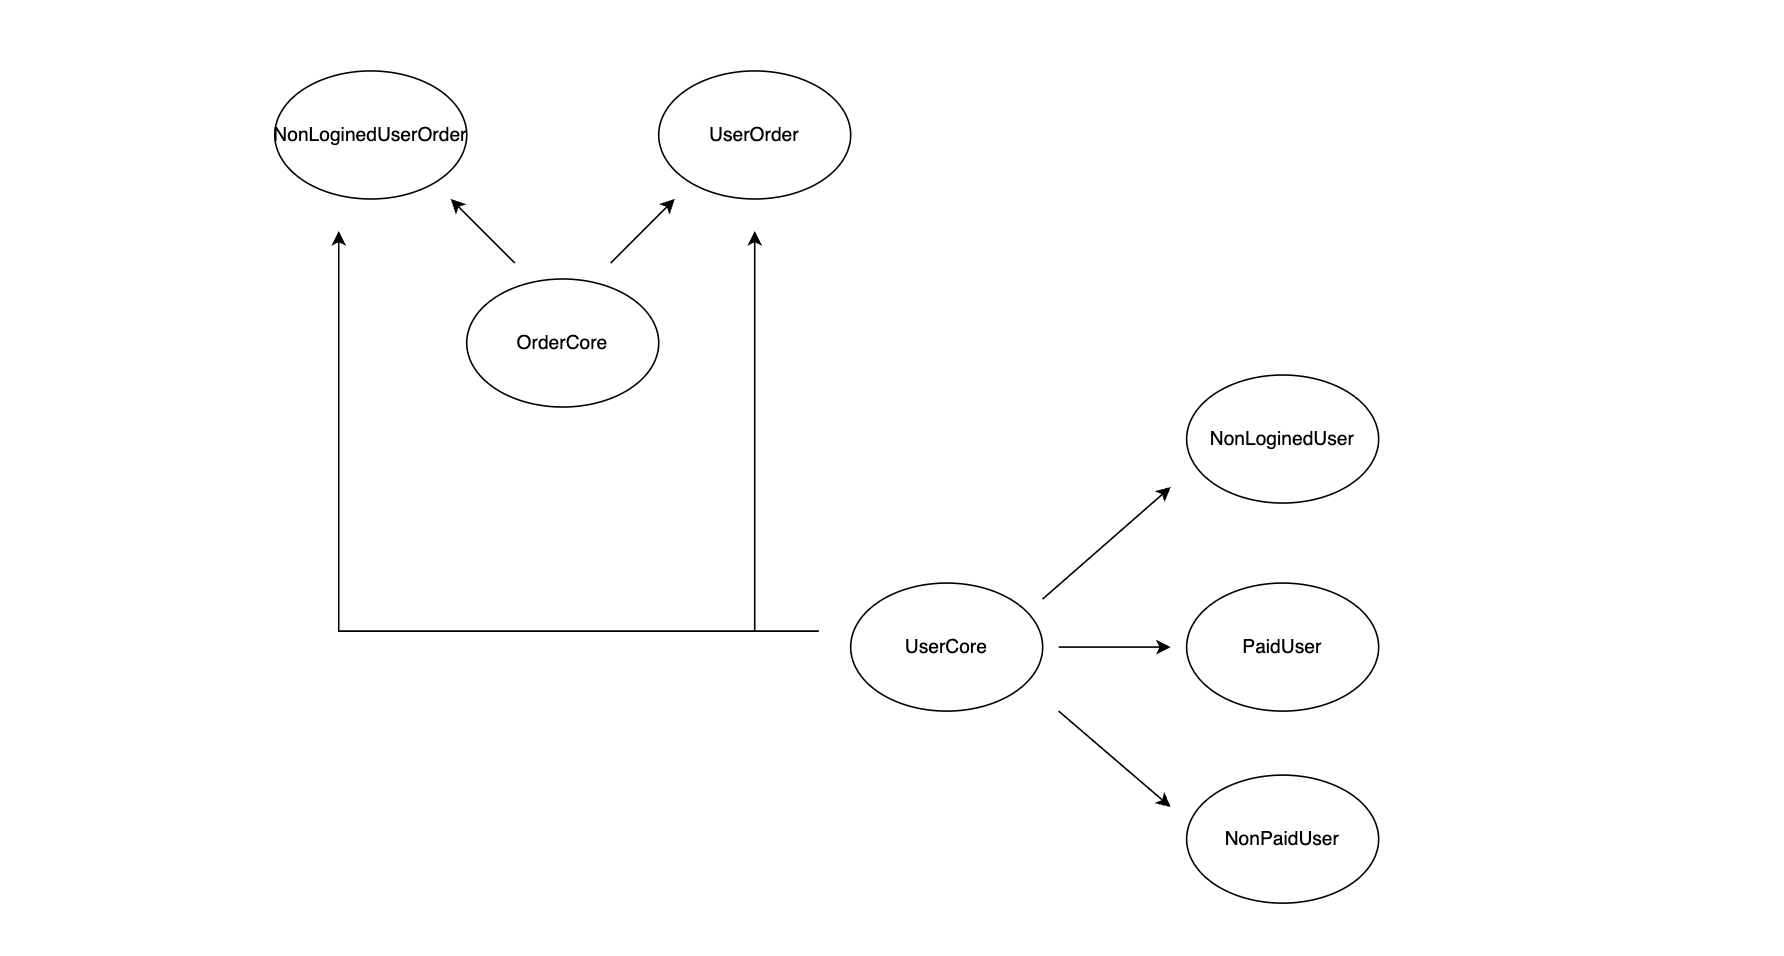
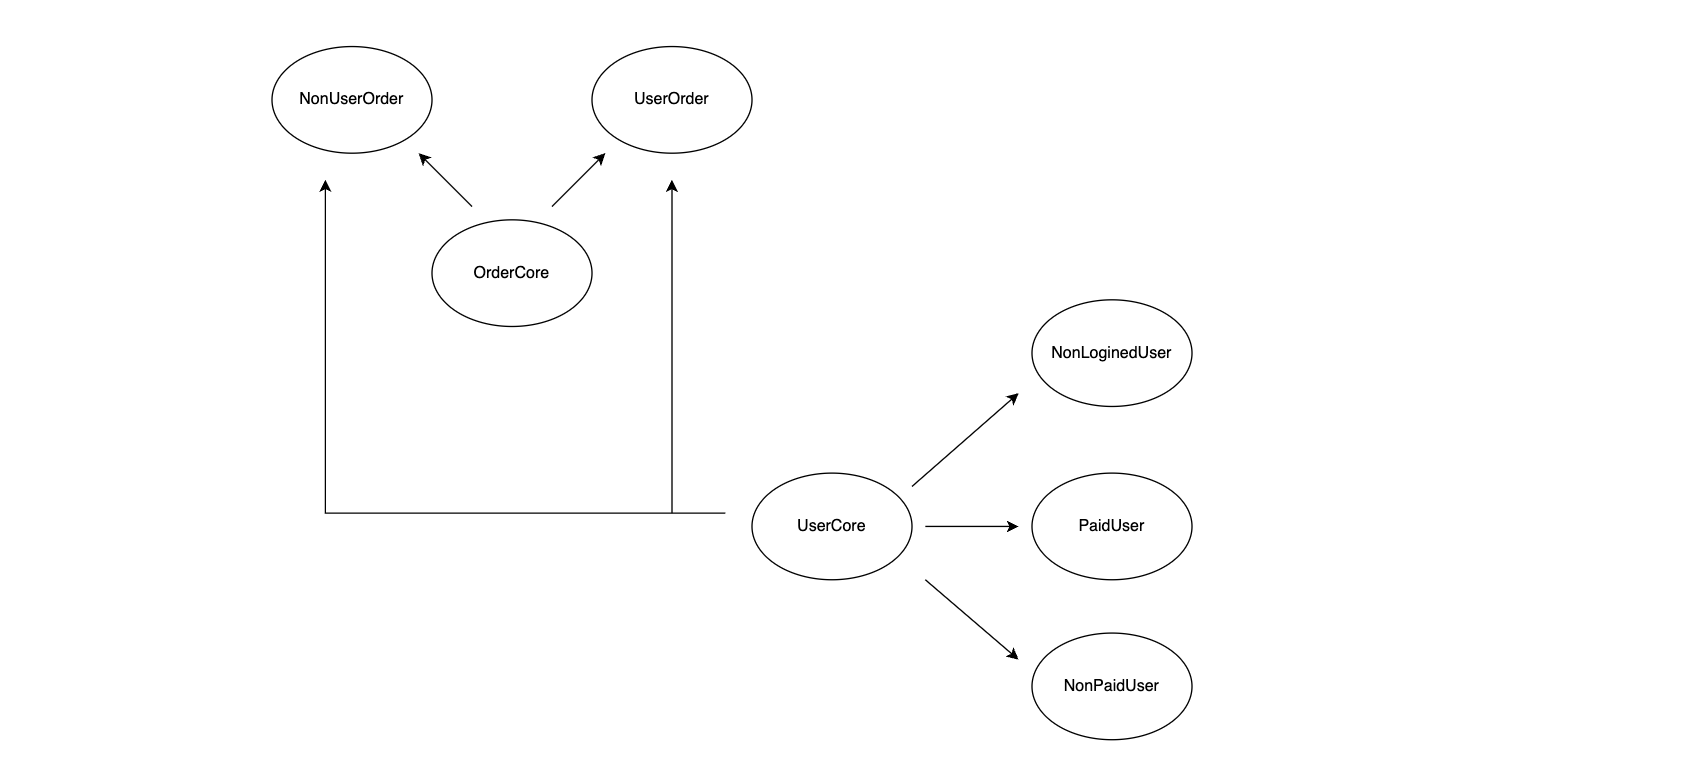
1

diff --git a/_posts/2023-06-30-dependnecy-manage-on-nestjs.md b/_posts/2023-06-30-dependnecy-manage-on-nestjs.md
@@ -9,46 +9,43 @@ tags:
 ---
 
 어떤 아키텍쳐를 쓰던 DI(dependency injection)는 대부분 이용된다. Nest.js의 기본 구조도 그렇다.
-그런데 DI로 개발하다보면 의존성이 꼬이는 일이 발생하는 경우가 있다. 바쁘다는 이유로 대충 생각해서 일하다보면 그럴때도 있고, 새로운 기능에 대해 개발도중에 기존 의존 구조와 상호의존되는 상황도 발생한다. 엄청 복잡하게 의존성이 엉켜서 전체 구조 파악이 힘들 때도 있겠지만, 그 정도가 되기전에 보통 **circular dependency**가 발생한다. 
+그런데 DI로 개발하다보면 의존성이 꼬이는 일이 발생하는 경우가 있다. 대부분이  **circular dependency**로 나타난다.
 이 때 *lazy loading*을 이용해서 circular dependency 발생 없이 개발할수도 있지만 상호의존은 최악의 구조이기 때문에 최대한 불가피한 경우에만 써야한다.
 
 내가 관리하는 프로젝트들에서 상호 의존을 피하기 위한 규칙들은 아래와 같다.
 
 ## 1. 테이블 마다 모듈을 만든다는 생각부터 버려야한다.
-나 또한 개발 초기에는 대부분의 백엔드 강의가 CRUD 강의였기때문에 테이블과 거의 1대1 매칭이 됐다. 그렇게 배웠다보니 나도 초기에는 실무에서 그렇게 해왔다. 하지만 어느 순간 상호 의존하는 상황이 발생한다.(지금도 꽤 발생한다..) 가장 큰 이유는 개별 모듈이 너무 커졌기 때문이다.
+나 또한 개발 초기에는 대부분의 백엔드 강의가 CRUD 강의였기때문에 테이블과 거의 1대1 매칭이 됐다. 그렇게 배웠다보니 나도 실무에서 그렇게 해왔다. 하지만 어느 순간 상호 의존하는 상황이 발생했다.(지금도 꽤 발생한다..) 가장 큰 이유는 개별 모듈이 너무 커졌기 때문이다.
 
 ### 종류에 따라
 ![1](/img/writing-images/user-module.png)
-User, Order, Product 이 3가지의 테이블을 가진 서비스를 생각해보자. 모듈을 테이블대로 3개만 만들어서 이용한다면 초기에는 기능이 괜찮았겠지만 서비스가 커질수록 기능이 아주 많아지면서 개별 모듈의 기능들이 많아진다(책임이 커진다).
-예를 들면, User의 종류도 처음엔 한 종류일 수 있었다. 그런데 한달뒤에 비로그인 유저가 주문할수 있는 기능도 생겨날수 있다. 혹은 유저 등급에 따라 기능이 분리될수도 있게 된다.(e.g. PaidUser, UnpaidUser).
+User, Order, Product 이 3가지의 테이블을 가진 서비스를 생각해보자. 모듈을 테이블대로 3개만 만들어서 이용한다면 초기에는 괜찮았겠지만 서비스가 커질수록 기능이 아주 많아지면서 개별 모듈의 기능들 또한 많아진다(책임이 커진다).
+예를 들면, User의 종류도 처음엔 한 종류였다. 그런데 한달뒤에 비로그인 유저가 주문할수 있는 기능도 생겨날수 있다. 혹은 유저 등급에 따라 기능이 분리될수도 있게 된다.(e.g. PaidUser, UnpaidUser).
 
 > "기능이 많다" 라는 건 다른 모듈의 기능을 필요할(의존할) 확률이 높아진다와 같은 말이다.
 
-PaidUser, UnpaiedUser, NonLoginedUser 처럼 여러개로 나눠 모듈을 관리한다면 PaidUser에서만 결제 정보에 대해 의존하면 된다. UnpaiedUser와 NonLoginedUser 모듈에서는 결제 정보를 의존하지 않아도 된다. 반대로 UnpaidUser에서만 필요한 모듈은 Unpaied모듈에서만 의존하고 다른 곳에서는 의존하지 않는다. **정확히 말하면 정말 필요한 기능만 필요한 곳에서 의존하는 구조가 성립된다.** 
+PaidUser, UnpaiedUser, NonLoginedUser 처럼 여러개로 나눠 모듈을 관리한다면 **PaidUser에서만 결제 정보에 대해 의존하면 된다.** UnpaiedUser와 NonLoginedUser 모듈에서는 결제 정보를 의존하지 않아도 된다. 반대로 UnpaidUser에서만 필요한 모듈은 Unpaied모듈에서만 의존하고 다른 곳에서는 의존하지 않는다. **정말 필요한 기능에서만 의존하는 구조가 성립된다.** 
 
-이렇게 구분하면 구조가 명확해진다. 하지만 한 뿌리에서 나온 모듈들이다보니 공통되는 기능들이 꽤나 존재하게 된다. 그럴 때는 User 모듈을 공통 기능/API 모듈로 사용한다. 혹은 좀 더 명시적이고 싶다면 UserCore, UserShare 모듈로 이름 지어도 좋다.
+**하지만 한 뿌리에서 나온 모듈들이다보니 공통되는 기능들이 꽤나 존재하게 된다. 그럴 때는 User 모듈을 공통 기능/API 모듈로 사용한다.** 혹은 좀 더 명시적이고 싶다면 UserCore, UserShare 모듈로 이름 지어도 좋다.
 
 ### 혼합된 형식으로
 ![1](/img/writing-images/order-and-user-module.png)
-한뿌리에서 나온 여러 종류에 따라 분리되는 모듈이 절반을 차지한다면 나머지 절반은 혼합된 형식이 차지한다. UserOrder, NonUserOrder 모듈처럼 나뉠수 있다. 쇼핑몰에서 흔히 볼수 있는 비회원 구매 기능을 생각하면 좋다. 두가지 데이터를 혼합한 모듈을 만들면 모듈의 기능이 분리된다. 나누지 않았다면 Order 모듈에서 모두 책임을 져야하니 말이다. 위 그림을 보면 NonLoginedUserOrder와 UserOrder는 OrderCore와 UserCore를 의존한다.
+한뿌리에서 나온 모듈을 종류에 따라 분리하는 방법이 모듈 관리의 절반을 차지한다면, 나머지 절반은 ***혼합된 형식***이 차지한다. User종류들과 Order이 합쳐진 UserOrder, NonUserOrder 모듈처럼 나뉠수 있다. <u>쇼핑몰에서 흔히 볼수 있는 비회원 구매 기능을 생각하면 좋다.</u> 
 
+두가지 데이터를 혼합한 모듈을 만들면 모듈의 기능이 분리되서 관리가 쉬워진다. 나누지 않았다면 Order 모듈에서 모두 책임을 져야하니 말이다. 
 
 ## 2. 방향 또한 중요하다.
-User, Order에서 둘의 관계는 User가 Order를 여러개 가진다. 일대다(완벽히 일대다는아니지만)와 같은 관계에서는 '다'가 '일'을 의존하도록 해야한다. 논리적으로 대부분이 그렇다. Order API를 개발할 때 User 정보를 가져올 확률이 높지 User API에서 Order 정보를 가져올 일은 그리 많지않다. 있을수 있지만 비율적으로 비교가 불가하다. 그러니 '다' 방향에서 '일'을 의존해야한다. '일'에서 '다'를 의존하게 된다면 기존 구조가 불량할 확률이 높다.
-
-한가지로 규칙을 정해야하는 상황이니 '다'에서 '일'을 의존하는 방향을 규칙으로 한다.
+User, Order에서 둘의 관계는 User가 Order를 여러개 가진다. **일대다(완벽히 일대다는아니지만)와 같은 관계에서는 '다'가 '일'을 의존하도록 해야한다.** 논리적으로 대부분이 그렇다. Order API를 개발할 때 User 정보를 가져올 확률이 높지 User API에서 Order 정보를 가져올 일은 그리 많지않다. 있을수 있지만 비율적으로 비교가 불가하다. 그러니 '다' 방향에서 '일'을 의존해야한다. '일'에서 '다'를 의존하게 된다면 기존 구조가 불량할 확률이 높다.
 
 
-## 3. 1 to 1은 보통 하나의 모듈에서 처리해도 되긴하다.
+## 3. 1 to 1은 보통 하나의 모듈에서 처리해도 되긴하는데..
 이미 다들 그렇게 하시겠지만.. User, Profile이 있다면 User 모듈에서 Profile에 대한 모든 기능을 처리하면된다. 그런데 만약에 Profile 기능이 꽤나 많다면 UserProfile이란 혼합 모듈을 만들면 더 깔끔해진다.
 
 여기서 둘의 차이점을 생각해보고 지나가자. 
+"1. Order모듈에서 Receipt모듈 처리" vs "2. 개별 모듈로 분리"
 
-"1. Order모듈에서 Receipt모듈 처리"와 "2. 개별 모듈로 분리" 이 두가지의 장단점을 비교해보자.
-
-1의 장점은 URL이 깔끔해진다.
-
-"GET order/:id/receipt" vs "GET receipt?orderId=123" 이렇게 비교하면 전자가 직관적이고 깔끔하다. 그러나 URL의 직관성이 중요하긴하지만, 백엔드 구조의 깔끔함이 우선임을 생각하면(추후에 확장가능성까지 생각한다면) 후자가 훨씬 좋은 선택지라고 할수 있다.
+1의 장점은 URL이 깔끔해진다. 
+"GET order/:id/receipt" vs "GET receipt?orderId=123" 이렇게 비교하면 전자가 직관적이고 깔끔하다. 그러나 URL의 직관성도 중요하긴하지만, 백엔드 구조의 깔끔함이 우선임을 생각하면(추후에 확장가능성까지 생각한다면) 후자가 훨씬 좋은 선택지라고 할수 있다.
 
 ## 4. 작은 모듈을 유지해야 변경에 용이하다.
 위 다른 이유들도 중요하지만 모든 것이 계획대로 되지만은 않는다. 바쁘다보면 실수하고 안바빠도 실수한다. 그러려면 변경이 쉬워야하는데 큰 모듈들로 구조가 유지된다면 구조를 잘못짰을 때 변경하기가 쉽지않다. 여러 모듈로 나뉜 상태라면 각 모듈마다 기능이 적을테니 의존성이 꼬였을 때 새로운 모듈로 이전하기가 쉬워진다.
